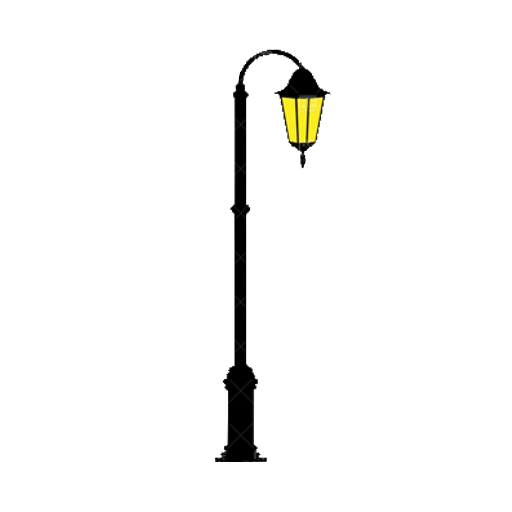
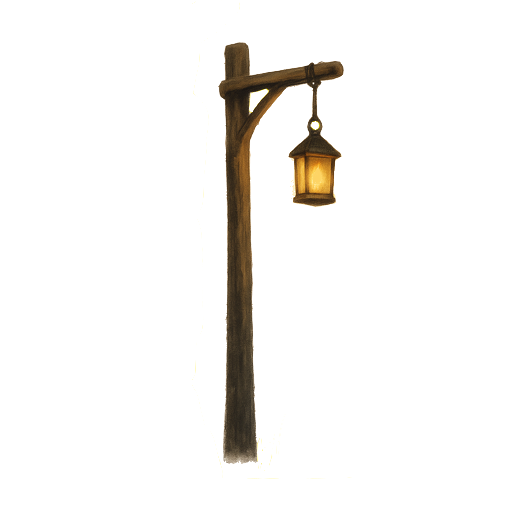
lampostScene

Changed region(s): [[0.4062, 0.0625, 0.6875, 0.9062]]

diff --git a/lamps.js b/lamps.js
@@ -1,0 +1,130 @@
+// lamps.js
+gsap.registerPlugin(ScrollTrigger);
+
+/* assets */
+const LAMP_SRC = [
+  "images/lampost1.png",
+  "images/lampost2.png",
+  "images/lampost3.png",
+  "images/lampost4.png"
+];
+const GROUND_SRC = [
+  "images/ground_stage5.png",
+  "images/ground_stage6.png",
+  "images/ground_stage7.png",
+  "images/ground_stage8.png"
+];
+
+/* helpers */
+function preload(srcs){
+  return Promise.all(srcs.map(s => new Promise(r => { const i=new Image(); i.onload=i.onerror=r; i.src=s; })));
+}
+function sizeMult(){
+  const v = getComputedStyle(document.documentElement).getPropertyValue('--citySizeMult').trim();
+  const n = parseFloat(v||'1'); return Number.isFinite(n) ? n : 1;
+}
+function computeLampHeightPx(){
+  const vh = window.innerHeight;
+  const base = vh * 0.70 * sizeMult();
+  const h = Math.max(520, Math.min(base, 1100));
+  return Math.round(h) + "px";
+}
+
+/* build layers */
+function buildGroundStack(){
+  const stack = document.getElementById("lampsGroundStack");
+  stack.innerHTML = "";
+  GROUND_SRC.forEach((src,i)=>{
+    const im = document.createElement("img");
+    im.className = "ground stage"+i;
+    im.src = src; im.alt = "ground stage "+i;
+    im.style.opacity = (i===0?"1":"0");
+    stack.appendChild(im);
+  });
+}
+function buildLampRow(n=5){
+  const row = document.getElementById("lampsRow");
+  row.innerHTML = "";
+  row.style.setProperty("--lampH", computeLampHeightPx());
+  for (let i=0;i<n;i++){
+    const wrap = document.createElement("div");
+    wrap.className = "lampWrap";
+    wrap.style.left = (((i+1)/(n+1))*100) + "%";
+    LAMP_SRC.forEach((src,si)=>{
+      const img = document.createElement("img");
+      img.className = "lamp stage"+si;
+      img.src = src; img.alt = "lamp stage "+si;
+      img.style.opacity = (si===0?"1":"0");
+      wrap.appendChild(img);
+    });
+    row.appendChild(wrap);
+  }
+}
+
+/* crossfade (same hold timing as earlier) */
+function buildCrossfade(){
+  const HOLD_START = 0.12, HOLD_END = 0.20;
+  const segs = LAMP_SRC.length - 1;
+  const segDur = (1 - HOLD_START - HOLD_END) / segs;
+  const tl = gsap.timeline({ paused:true });
+
+  function fadeLamps(t,a,b){
+    document.querySelectorAll("#lampsRow .lampWrap").forEach(w=>{
+      const A = w.querySelector(".stage"+a), B = w.querySelector(".stage"+b);
+      if(!(A&&B)) return;
+      tl.set(A,{opacity:1},t).set(B,{opacity:0},t)
+        .to(A,{opacity:0,duration:segDur,ease:"none"},t)
+        .to(B,{opacity:1,duration:segDur,ease:"none"},t);
+    });
+  }
+  function fadeGrounds(t,a,b){
+    const s = document.getElementById("lampsGroundStack");
+    const A = s.querySelector(".stage"+a), B = s.querySelector(".stage"+b);
+    if(!(A&&B)) return;
+    tl.set(A,{opacity:1},t).set(B,{opacity:0},t)
+      .to(A,{opacity:0,duration:segDur,ease:"none"},t)
+      .to(B,{opacity:1,duration:segDur,ease:"none"},t);
+  }
+
+  for (let i=0;i<segs;i++){
+    const t = HOLD_START + i*segDur;
+    fadeLamps(t,i,i+1);
+    fadeGrounds(t,i,i+1);
+  }
+  return tl;
+}
+
+/* init: pinned right after forest section in page flow */
+const ALL = [...LAMP_SRC, ...GROUND_SRC];
+preload(ALL).then(()=>{
+  buildGroundStack();
+  buildLampRow(5);
+  const xfade = buildCrossfade();
+
+  // hint fade
+  gsap.to("#lampsScene .lampsHint", {
+    opacity: 0, duration: 0.4,
+    scrollTrigger: { trigger: "#lampsScene", start: "top top+=1", end: "+=1", scrub: true }
+  });
+
+  // Match forest crossfade rate (~2.12k px per transition)
+  const st = ScrollTrigger.create({
+    trigger: "#lampsScene",
+    start: "top top",
+    end: "+=9400",
+    scrub: true,
+    pin: true,
+    anticipatePin: 1,
+    onUpdate(self){ xfade.progress(self.progress); },
+    invalidateOnRefresh: true,
+    onRefreshInit(){ xfade.progress(0); }
+  });
+
+  // responsive sizing + stable first measure
+  const refresh = ()=>{
+    document.getElementById("lampsRow").style.setProperty("--lampH", computeLampHeightPx());
+    st.refresh();
+  };
+  window.addEventListener("resize", refresh);
+  requestAnimationFrame(()=> ScrollTrigger.refresh());
+});

diff --git a/lamps.css b/lamps.css
@@ -1,0 +1,62 @@
+/* Lamppost scene — scoped to avoid touching forest */
+#lampsScene{
+  position: relative;
+  width: 100vw;
+   min-height: 100vh;      /* full-screen pin like your other scenes */
+  overflow: hidden;
+  background: transparent;
+   opacity: 0;
+  transform: translateY(5vh);
+  will-change: opacity, transform;
+  z-index: 2; 
+}
+
+
+#lampsGroundBase{
+  position:absolute; left:0; bottom:0;
+  width:100vw; z-index:4;
+}
+
+/* stacked ground fades (5→8) */
+#lampsGroundStack{
+  position:absolute; inset:0; z-index:4; pointer-events:none;
+}
+#lampsGroundStack img.ground{
+  position:absolute; left:0; right:0; bottom:0;
+  width:100vw; height:auto; object-fit:cover;
+  opacity:0; will-change:opacity;
+}
+
+/* lampposts */
+#lampsRow{
+  position:absolute; inset:0; z-index:5; pointer-events:none;
+}
+#lampsRow .lampWrap{
+  position:absolute; bottom:0;
+  transform:translateX(-50%);
+  display:flex; align-items:flex-end;
+  height:var(--lampH);                /* set via JS */
+  transform-origin:bottom center;
+}
+#lampsRow .lamp{
+  position:absolute; left:50%; bottom:0; transform:translateX(-50%);
+  width:auto; max-height:100%;
+  opacity:0; pointer-events:none;
+  filter:drop-shadow(0 6px 16px rgba(0,0,0,.35));
+}
+
+/* subtle scroll hint */
+#lampsScene .lampsHint{
+  position:absolute; left:50%; bottom:6vh; transform:translateX(-50%);
+  font:600 13px/1.2 system-ui, sans-serif;
+  letter-spacing:.08em; text-transform:uppercase;
+  color:#222; opacity:.75; z-index:7; pointer-events:none;
+  animation: lampsHintPulse 1.6s ease-in-out infinite alternate;
+}
+@keyframes lampsHintPulse{
+  from{transform:translateX(-50%) translateY(0);   opacity:.75;}
+  to  {transform:translateX(-50%) translateY(-6px);opacity:1;}
+}
+
+/* shared knob for size (mirrors your --forestSizeMult) */
+:root{ --citySizeMult: 1.35; }

diff --git a/forest-row.js b/forest-row.js
@@ -3817,3 +3817,41 @@ window.addEventListener("resize", debounce(rebuildRows, 120));
     // anything else (sky/empty) → no-op (or do subtle dust if you want)
   }, {passive:true});
 })();
+// ---- BRIDGE: fade the trail out while fading lamps in near the end of forest
+// Tweak these two knobs to taste:
+const HANDOFF_START = 0.90; // start blending when forest progress ≥ 85%
+const HANDOFF_SPAN  = 0.18; // blend across final 15% (85% → 100%)
+
+gsap.set("#lampsScene", { autoAlpha: 0, yPercent: 5 });
+
+ScrollTrigger.create({
+  trigger: "#forestReveal",           // forest section (your existing section)
+  start:   "top top",
+  end:     "bottom top",              // runs for the whole pinned span
+  scrub:   true,
+  onUpdate: (self) => {
+    // map last HANDOFF_SPAN of forest to 0..1
+    const p = gsap.utils.clamp(
+      0, 1,
+      (self.progress - HANDOFF_START) / HANDOFF_SPAN
+    );
+
+    // fade out the trail pieces (ground + leaves + tractor layer)
+    gsap.to(["#ground", "#leafCanvas", "#tractorLayer"], {
+      autoAlpha: 1 - p,
+      overwrite: "auto",
+      duration: 0
+    });
+
+    // fade/slide lamps in BEFORE their own ScrollTrigger kicks in
+    gsap.to("#lampsScene", {
+      autoAlpha: p,
+      yPercent: 5 - 5*p,   // 5vh → 0
+      overwrite: "auto",
+      duration: 0
+    });
+  },
+  // when the forest pin releases, ensure lamps are fully on
+  onLeave:     () => gsap.set("#lampsScene", { autoAlpha: 1, yPercent: 0 }),
+  onEnterBack: () => gsap.set("#lampsScene", { autoAlpha: 0, yPercent: 5 })
+});

diff --git a/index.html b/index.html
@@ -21,6 +21,7 @@
   <link rel="stylesheet" href="forest-row.css" />
    <link rel="stylesheet" href="fliers.css" />
     <link rel="stylesheet" href="city-reveal.css" />
+    <link rel="stylesheet" href="lamps.css" />
 </head>
 <body>
   <button id="micWindBtn" style="position:fixed; right:16px; bottom:16px; z-index:9999; padding:10px 14px; border:0; border-radius:10px; cursor:pointer; background:#0a0a0d; color:#e6e6f0; font:600 14px/1 system-ui; box-shadow:0 6px 20px rgba(0,0,0,.25); opacity:.9">
@@ -69,6 +70,14 @@
     <div class="tree-row"      id="treeRow"></div>
   </section>
 
+<!-- ===== Scene 3 (Lamppost Evolution) ===== -->
+<section id="lampsScene" aria-label="Lamppost evolution">
+  <!-- base ground (stage 5) so you don’t see a flash before JS stacks others -->
+  <img src="images/ground_stage5.png" alt="" id="lampsGroundBase" />
+  <div id="lampsGroundStack"></div>
+  <div id="lampsRow" aria-hidden="true"></div>
+  <div class="lampsHint">scroll ↓</div>
+</section>
 
 
   <!-- Scripts (after DOM so ids exist) -->
@@ -76,6 +85,7 @@
   <script src="bg-rainbow.js"></script>
   <script src="forest-row.js"></script>
   <script src="tractor.js"></script>
+   <script src="lamps.js"></script>
   <script src="mic-wind.js"></script>
   <script src="scene1.js"></script>
   <script src="city-reveal.js"></script>
